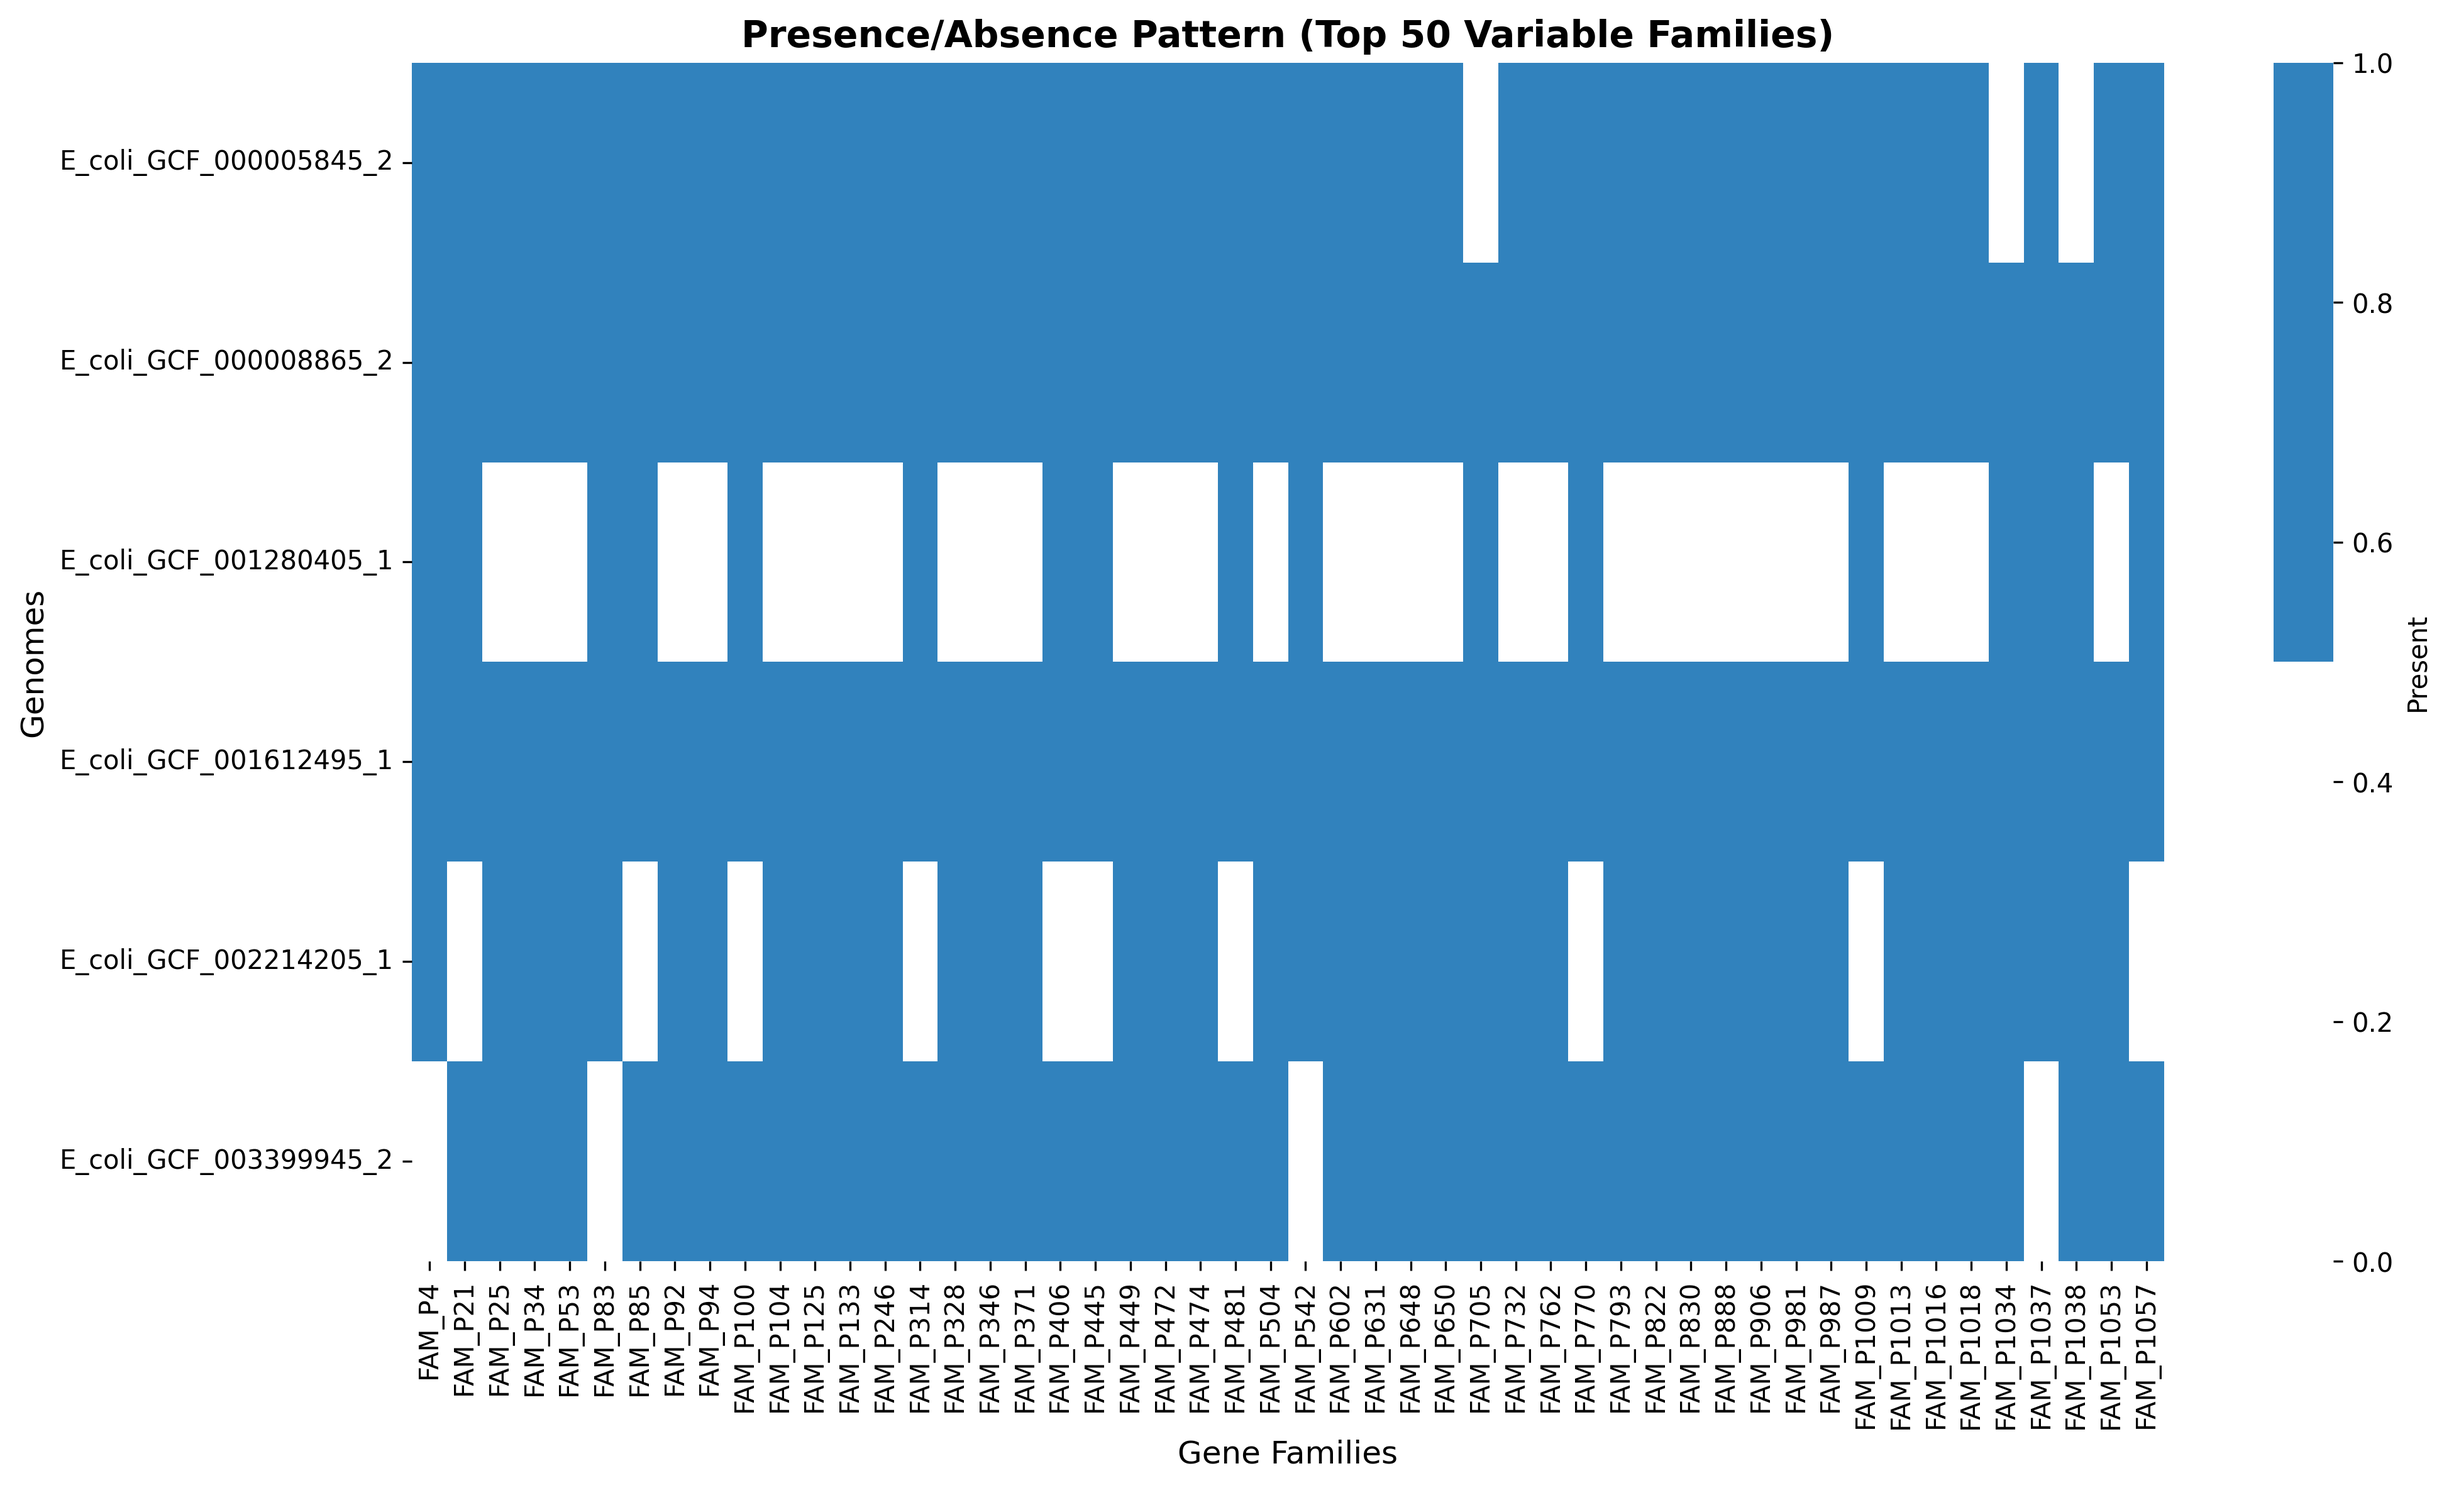
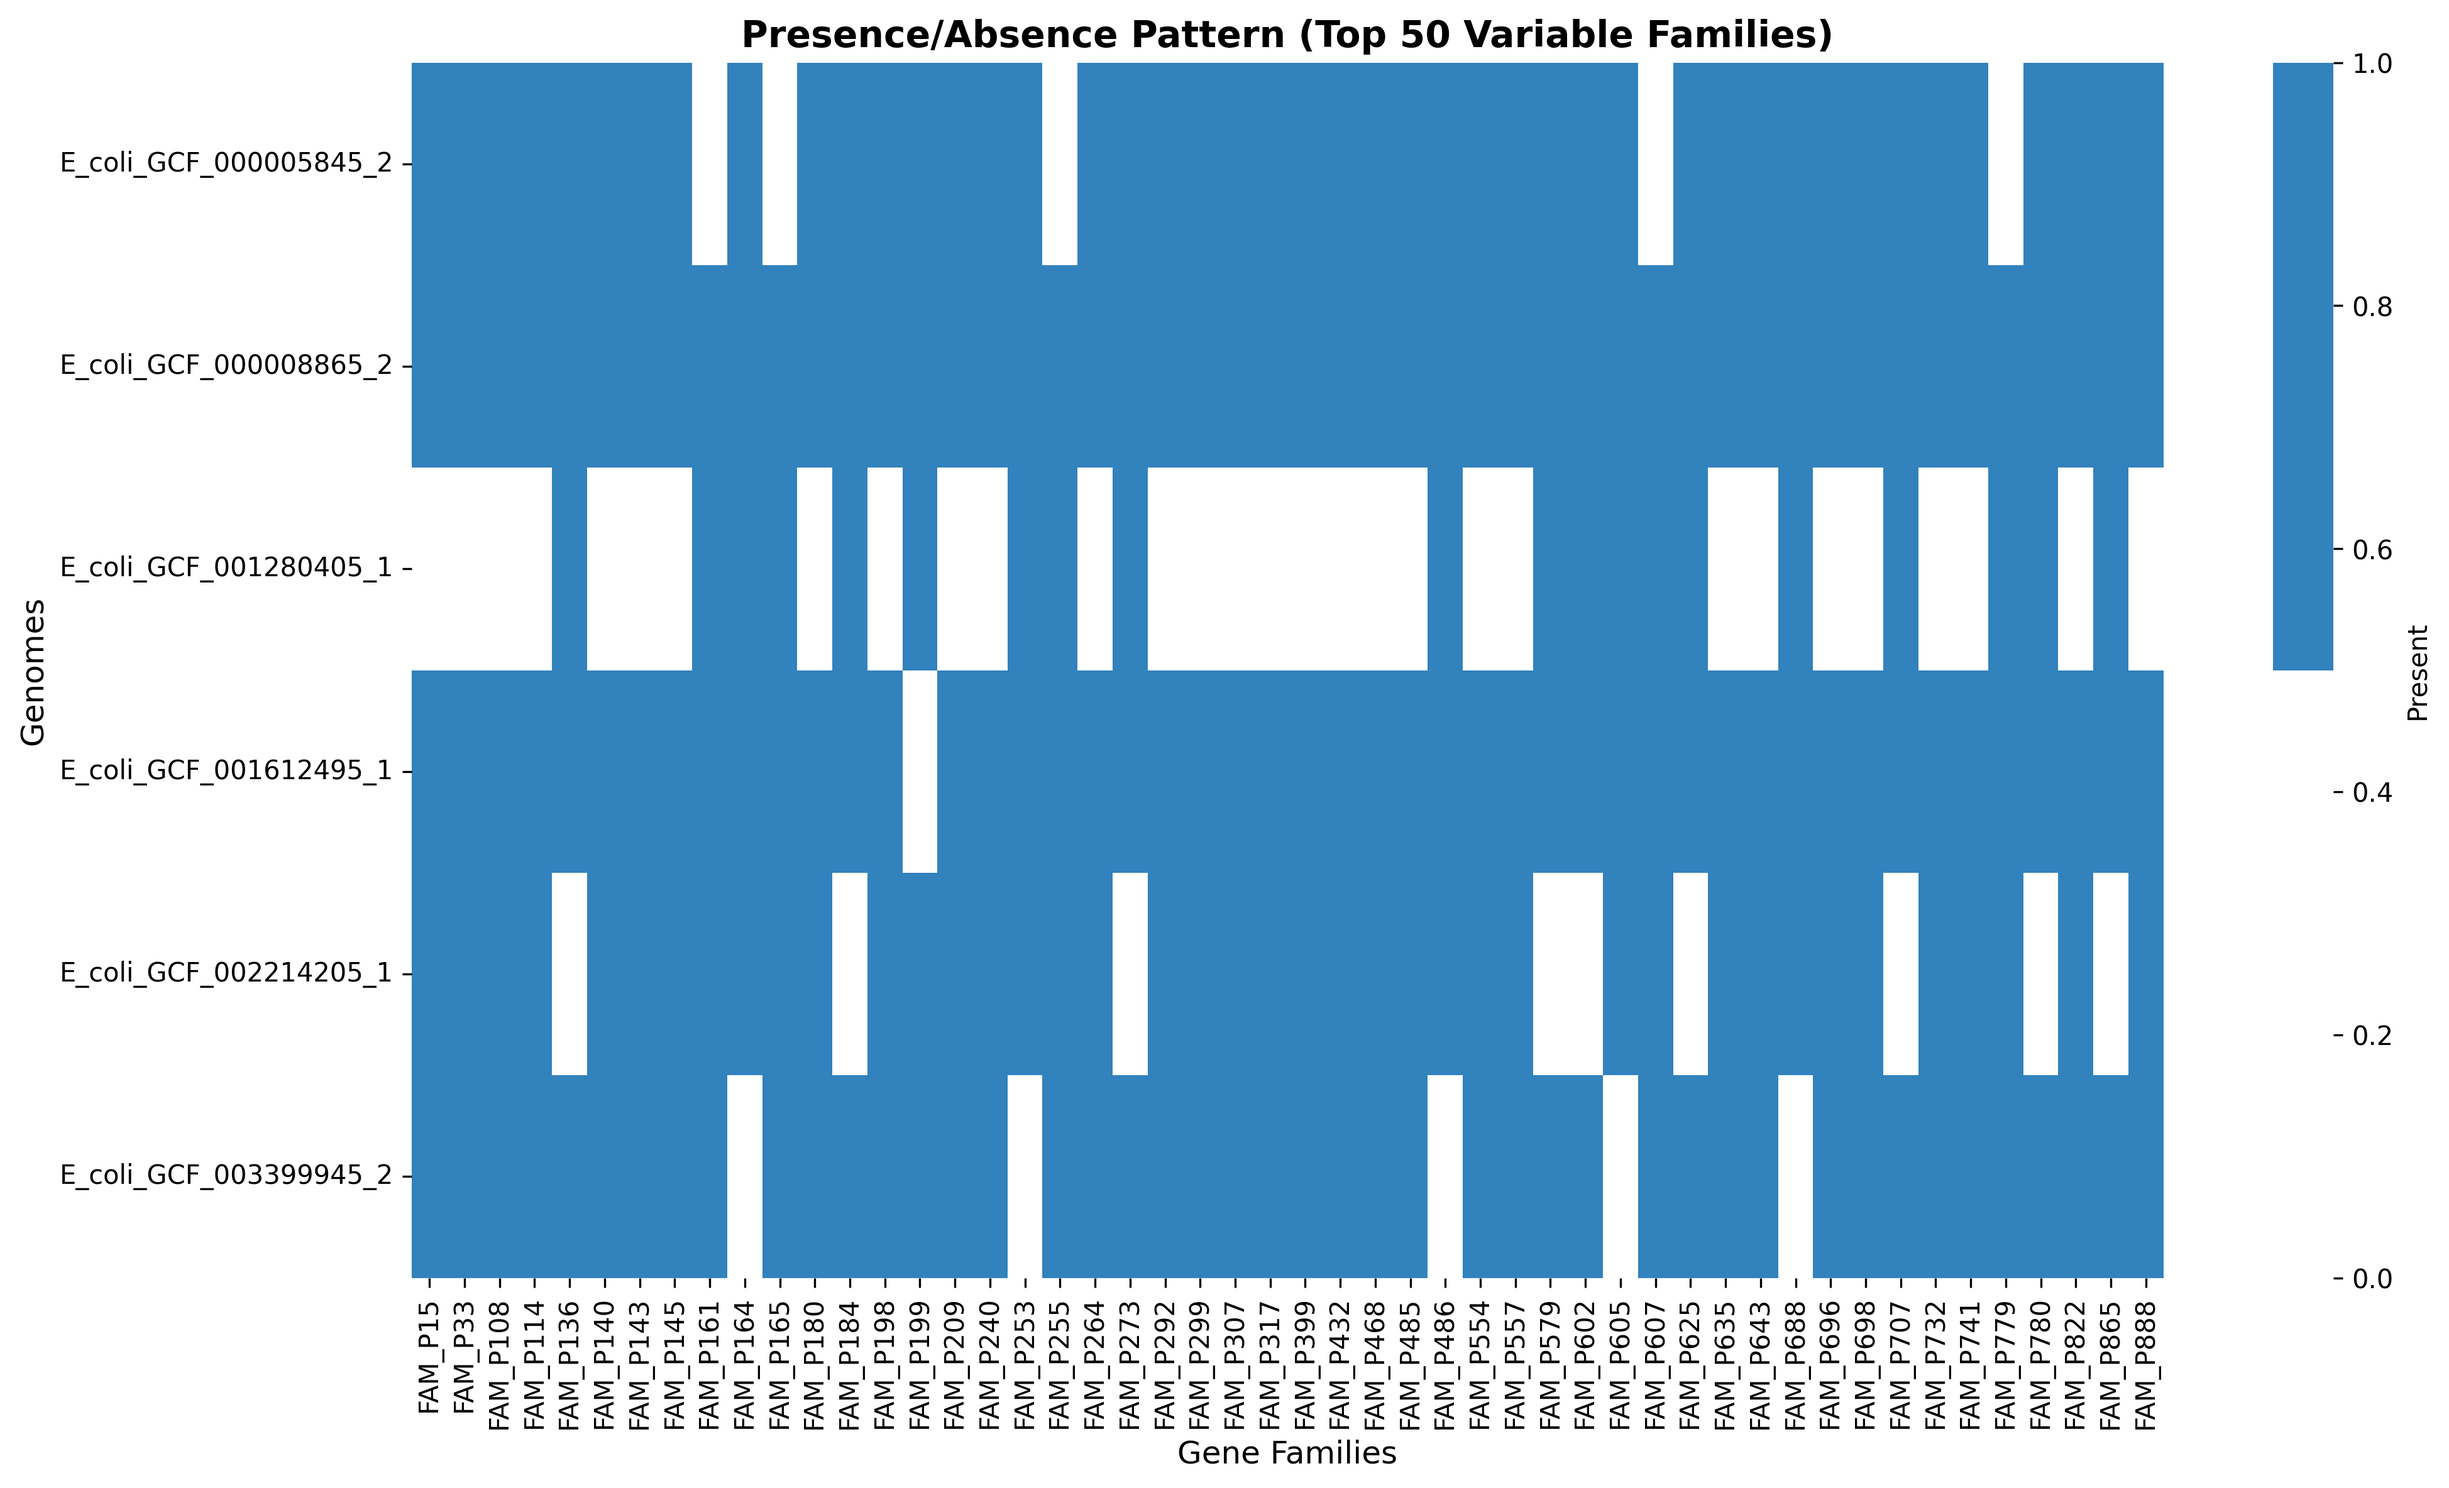
Fix cloud_threshold parameter passing and update README visualizations
Changes:
- clustering.py: Add cloud_threshold and core_threshold parameters to cluster_features_by_type()
- clustering.py: Pass thresholds through to classify_families()
- pipeline.py: Pass config.cloud_threshold and config.core_threshold to clustering
- images/*.png: Update visualizations with --cloud-threshold 0.20 showing cloud families (21.8%)

The --cloud-threshold CLI flag now works correctly. Singletons are properly included
in family counts and classified based on genome frequency thresholds.

diff --git a/pangenomeplus/clustering.py b/pangenomeplus/clustering.py
@@ -460,6 +460,8 @@ def cluster_features_by_type(
     output_dir: str,
     id_manager: CompactIDManager,
     total_genomes: int,
+    cloud_threshold: float = 0.15,
+    core_threshold: float = 0.95,
 ) -> Tuple[Dict[str, str], Dict[str, FamilyStats]]:
     """Cluster features of specific type and assign families.
 
@@ -503,6 +505,12 @@ def cluster_features_by_type(
     compact_to_family, family_to_members = assign_family_ids(clusters, feature_type)
 
     # Classify families
-    family_stats = classify_families(family_to_members, id_manager, total_genomes)
+    family_stats = classify_families(
+        family_to_members,
+        id_manager,
+        total_genomes,
+        cloud_threshold=cloud_threshold,
+        core_threshold=core_threshold,
+    )
 
     return compact_to_family, family_stats

diff --git a/pangenomeplus/pipeline.py b/pangenomeplus/pipeline.py
@@ -737,6 +737,8 @@ def run_clustering_stage(
                 output_dir=clustering_output_dir,
                 id_manager=id_manager,
                 total_genomes=total_genomes,
+                cloud_threshold=config.cloud_threshold,
+                core_threshold=config.core_threshold,
             )
 
             # Store both assignments and stats
